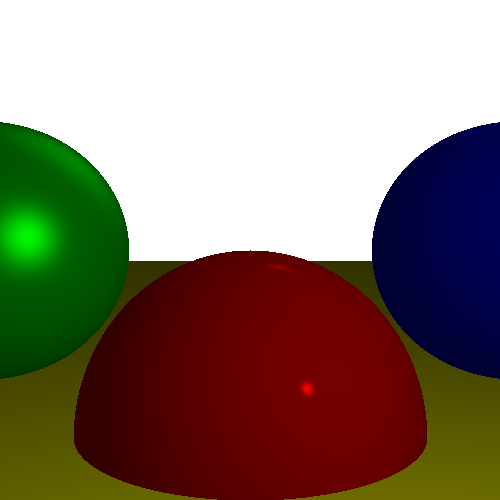
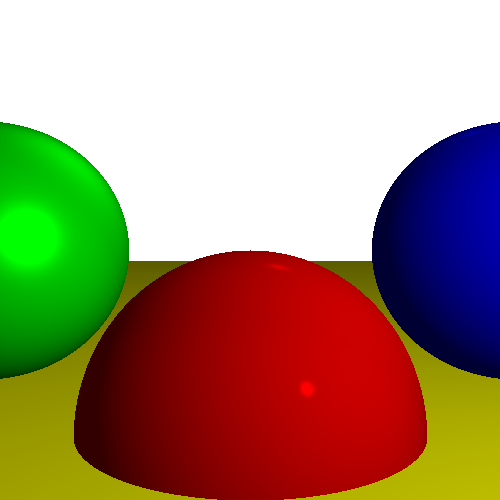
fix normalizations

diff --git a/circle.py b/circle.py
@@ -27,10 +27,11 @@ t_max = float("inf")
 
 def canvas_to_viewport(x, y):
     return np.array([
-        x * viewport_size / WIDTH, 
-        y * viewport_size / HEIGHT, 
+        x * viewport["width"] / WIDTH, 
+        y * viewport["height"] / HEIGHT, 
         viewport["distance"]
     ])
+
 
 
 # Helper function: Ray-sphere intersection
@@ -74,6 +75,7 @@ def trace_ray(ray_origin, ray_direction):
     intensity = computeLighting(P, N, view_direction, closest_sphere)
     color = np.array(closest_sphere["color"]) * intensity
 
+    color = np.clip(color, 0, 255)
     pixel_color = tuple(color.astype(int))
 
     return pixel_color
@@ -95,13 +97,14 @@ def computeLighting(P, N, V, sphere):
             n_dot_l = np.dot(N, light_vector)
 
             if n_dot_l > 0:
-                intensity += l["intensity"] * n_dot_l/(np.linalg.norm(N) * np.linalg.norm(P))
+                intensity += l["intensity"] * n_dot_l
             
             if sphere["shine"] != -1:
                 R = 2 * N * np.dot(N, light_vector) - light_vector
                 r_dot_v = np.dot(R, V)
                 if r_dot_v > 0:
-                    intensity += l["intensity"] * (r_dot_v / (np.linalg.norm(R) * np.linalg.norm(V))) ** sphere["shine"]
+                    intensity += l["intensity"] * (r_dot_v ** sphere["shine"])
+
 
     return min(intensity, 1)
 
